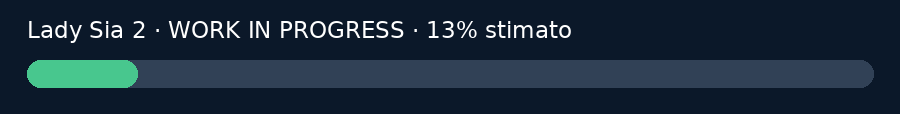
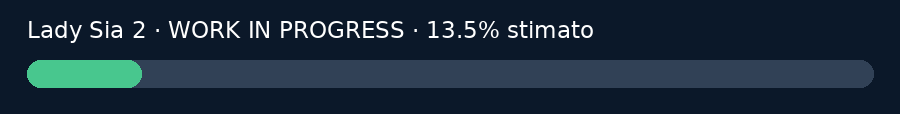
Connect the next island gap with reversible jumps and native previews

Changed region(s): [[0.4978, 0.1842, 0.6844, 0.3421], [0.1244, 0.6842, 0.1556, 0.7632], [0.1244, 0.5263, 0.1556, 0.6053]]

diff --git a/tools/package_build.py b/tools/package_build.py
@@ -19,6 +19,8 @@ def main():
  pictures=[p.with_suffix('.png') for p in sorted(root.glob('*.ppm'))]
  if not any(s.startswith('PASS pickup death integration:') for s in passed):
   raise SystemExit('Missing PASS pickup death integration:')
+ if not any(s.startswith('PASS island gap integration:') for s in passed):
+  raise SystemExit('Missing PASS island gap integration:')
  if not any(s.startswith('PASS ramp route integration:') for s in passed):
   raise SystemExit('Missing PASS ramp route integration:')
  if any(not p.exists() for p in pictures):raise SystemExit('Export every emulator PPM before packaging')
@@ -30,16 +32,18 @@ def main():
  shutil.copyfile(root/'position-audit.json',out/'position-audit.json')
  (out/'screenshots').mkdir()
  for path in pictures:shutil.copyfile(path,out/'screenshots'/path.name)
- info={'source_commit':os.environ.get('GITHUB_SHA','not-specified'),'rom_sha256':hashlib.sha256(data).hexdigest(),'rom_bytes':len(data),'screenshots':len(pictures),'overall_completion_estimate_percent':sum(r['earned'] for r in json.loads((Path(__file__).resolve().parents[1]/'docs/progress.json').read_text())['areas']),'playable_viewports':11,'collision_geometry':'provisional','hardware_tested':False,'disk_save_reload_tested':True,'music':'Existing mixed recording; separation trials are not integrated.'}
+ info={'source_commit':os.environ.get('GITHUB_SHA','not-specified'),'rom_sha256':hashlib.sha256(data).hexdigest(),'rom_bytes':len(data),'screenshots':len(pictures),'overall_completion_estimate_percent':sum(r['earned'] for r in json.loads((Path(__file__).resolve().parents[1]/'docs/progress.json').read_text())['areas']),'playable_viewports':12,'collision_geometry':'provisional','hardware_tested':False,'disk_save_reload_tested':True,'music':'Existing mixed recording; separation trials are not integrated.'}
  (out/'BUILD_INFO.json').write_text(json.dumps(info,indent=2)+'\n')
- (out/'LEGGIMI.txt').write_text('''LADY SIA 2 - BUILD DI TEST\n\nApri Lady_Sia2_GBA_test.gba in un emulatore GBA.\nÈ una ricostruzione parziale: undici inquadrature parziali del livello 1, tre guardie prototipo e cinque gemme.\nLe nuove aree aggiungono salita, vuoto, ponte, terza guardia, parete, piattaforma superiore e due viste della rampa con collisioni provvisorie.\nIl percorso completo e gli altri livelli non sono ancora giocabili.\n\nSu+A+sinistra dalla parete: salto alto provvisorio verso la piattaforma superiore.\nSulla piattaforma superiore prosegui a sinistra: risali la rampa fino alla nuova isola.
+ (out/'LEGGIMI.txt').write_text('''LADY SIA 2 - BUILD DI TEST\n\nApri Lady_Sia2_GBA_test.gba in un emulatore GBA.\nÈ una ricostruzione parziale: dodici inquadrature parziali del livello 1, tre guardie prototipo e cinque gemme.\nLe nuove aree aggiungono salita, vuoto, ponte, terza guardia, parete, piattaforma superiore due viste della rampa e il salto fra le isole successive con collisioni provvisorie.\nIl percorso completo e gli altri livelli non sono ancora giocabili.\n\nSu+A+sinistra dalla parete: salto alto provvisorio verso la piattaforma superiore.\nSulla piattaforma superiore prosegui a sinistra: risali la rampa fino alla nuova isola. Prosegui a sinistra e salta il vuoto verso l'isola successiva; Su+A raggiunge il ripiano alto provvisorio.
 A: conferma/salto. B: indietro/attacco.\nFrecce: movimento. Salta sotto il bordo per aggrapparti; Su/A: risali; Giu: lascia la presa. Start: pausa.\nSelect: menu. R: ripristino delle aree e delle gemme.\nTre vite e tre HP (provvisori). Colpi nemici consumano HP; colpi letali e cadute consumano una vita.\nRespawn: HP pieni, gemme e nemici sconfitti conservati. Zero vite: Game Over.\nHP e vite consultabili nella pausa; nessun riquadro HP/L sovrapposto allo scenario.\nPLAY apre direttamente i dialoghi iniziali: il filmato INTRO e la relativa opzione sono stati rimossi.\n\nSOUND viene salvato in SRAM; il vecchio flag INTRO non abilita più il filmato. Il reset del core è verificato;\nriapertura del file SRAM verificata con nuove istanze mGBA, SOUND spento/acceso e checksum corrotto.\nHardware reale non ancora verificato.\nLa musica usa ancora la registrazione precedente.\nNon è stato integrato il tentativo di separazione degli effetti.\n\nTEST_REPORT.txt: prove mGBA superate.\nBUILD_INFO.json: commit, hash ROM e limiti.\nSHA256SUMS.txt: integrità di tutti gli altri file del pacchetto.\nscreenshots/: acquisizioni reali della ROM compilata.\n''')
  repo=Path(__file__).resolve().parents[1]
  shutil.copyfile(repo/'references/LIFE_FEEDBACK_STATUS.md',out/'LIFE_FEEDBACK_STATUS.md')
  shutil.copyfile(repo/'references/RAMP_ROUTE_STATUS.md',out/'RAMP_ROUTE_STATUS.md')
  for source in ['previews/ramp_gameplay.gif','previews/ramp_preview.json','previews/ramp_upper_landing.png','previews/ramp_lower_entry.png','assets/ramp_route_manifest.json']:
   shutil.copyfile(repo/source,out/Path(source).name)
- for name in ['jump','ledge','scenery','continuation','bridge_run','ramp']:
+ for source in ['references/ISLAND_GAP_STATUS.md','previews/island_gap_gameplay.gif','previews/island_gap_preview.json','previews/island_gap_left_landing.png','previews/island_gap_high_ledge.png','assets/island_gap_manifest.json']:
+  shutil.copyfile(repo/source,out/Path(source).name)
+ for name in ['jump','ledge','scenery','continuation','bridge_run','ramp','island_gap']:
   report=json.loads((repo/'previews'/f'{name}_preview.json').read_text())
   preview=(repo/'previews'/f'{name}_gameplay.gif').read_bytes()
   if len(preview)!=report.get('gif_bytes') or hashlib.sha256(preview).hexdigest()!=report.get('gif_sha256'):

diff --git a/tools/frontend_check.c b/tools/frontend_check.c
@@ -220,6 +220,7 @@ int main(int argc,char **argv){
  assert(!mkdir("build/continuation_sequence",0777)||errno==EEXIST);
  assert(!mkdir("build/bridge_run_sequence",0777)||errno==EEXIST);
  assert(!mkdir("build/ramp_sequence",0777)||errno==EEXIST);
+ assert(!mkdir("build/island_gap_sequence",0777)||errno==EEXIST);
  mLogSetDefaultLogger(&test_logger);
  assert(argc==2);struct mCore *c=mCoreFind(argv[1]);assert(c&&c->init(c));mCoreInitConfig(c,NULL);
  color_t *pixels=calloc(240*160,sizeof(color_t));assert(pixels);c->setVideoBuffer(c,pixels,240);
@@ -600,6 +601,32 @@ int main(int argc,char **argv){
  c->setKeys(c,0);run(c,4);assert(value(c,17)==10&&ramp_crossed==2&&ramp_captured);
  move_to(c,32,85);assert(value(c,14)&&(int)value(c,9)==60*FP);
  capture(c,"build/ramp_upper_landing.ppm");
+ /* Explore the next gap with controller input; keep its film separate. */
+ const char *before_gap_sequence=sequence_dir;unsigned before_gap_frame=sequence_frame;
+ sequence_dir="build/island_gap_sequence";sequence_frame=0;
+ c->setKeys(c,32);
+ for(int i=0;i<30&&value(c,17)==10;i++){
+  int x=(int)value(c,8),y=(int)value(c,9);run(c,1);
+  if(value(c,17)==11){assert((int)value(c,8)-x==76*FP-320);assert((int)value(c,9)-y==44*FP);}
+ }
+ c->setKeys(c,0);run(c,4);assert(value(c,17)==11&&value(c,14));
+ capture(c,"build/island_gap_entry.ppm");
+ move_to(c,32,140);c->setKeys(c,33);run(c,58);c->setKeys(c,0);run(c,6);
+ assert(value(c,17)==11&&value(c,14)&&(int)value(c,8)<84*FP&&(int)value(c,9)==104*FP);
+ capture(c,"build/island_gap_left_landing.ppm");
+ c->setKeys(c,97);run(c,90);c->setKeys(c,0);run(c,4);
+ assert(value(c,14)&&(int)value(c,9)==20*FP);capture(c,"build/island_gap_high_ledge.ppm");
+ move_to(c,16,65);c->setKeys(c,0);run(c,100);
+ assert(value(c,14)&&(int)value(c,9)==104*FP);
+ c->setKeys(c,17);
+ for(int i=0;i<120&&value(c,17)==11;i++)run(c,1);
+ c->setKeys(c,0);run(c,4);
+ assert(value(c,17)==10&&value(c,14)&&value(c,31)==upper_lives&&value(c,18)==upper_falls);
+ assert(value(c,10)==5&&value(c,26)==3);capture(c,"build/island_gap_return.ppm");
+ FILE *gap_count=fopen("build/island_gap_sequence/frame_count.txt","w");assert(gap_count);
+ fprintf(gap_count,"%u\n",sequence_frame);fclose(gap_count);
+ sequence_dir=before_gap_sequence;sequence_frame=before_gap_frame;
+ puts("PASS island gap integration: twelfth view, registered portal, gap jumps both ways, high ledge and return using controller input; five gems, three defeats and lives preserved");
  tap(c,8);state(c,8);unsigned ramp_tick=value(c,16);run(c,30);assert(value(c,16)==ramp_tick);
  capture(c,"build/ramp_pause.ppm");tap(c,1);state(c,7);
  /* Isolated fall branch restores a complete emulator state before the return. */
@@ -607,7 +634,7 @@ int main(int argc,char **argv){
  const char *ramp_sequence=sequence_dir;sequence_dir=NULL;
  c->setKeys(c,32);for(int i=0;i<220&&value(c,18)==upper_falls;i++)run(c,1);
  c->setKeys(c,0);run(c,4);
- assert(value(c,17)==10&&value(c,18)==upper_falls+1&&value(c,31)==upper_lives-1);
+ assert(value(c,17)==11&&value(c,18)==upper_falls+1&&value(c,31)==upper_lives-1);
  assert(value(c,10)==5&&value(c,26)==3&&value(c,22)==3&&value(c,14));
  capture(c,"build/ramp_upper_respawn.ppm");
  assert(c->loadState(c,ramp_state));free(ramp_state);sequence_dir=ramp_sequence;
@@ -627,7 +654,8 @@ int main(int argc,char **argv){
  c->setKeys(c,32);
  for(int i=0;i<100&&value(c,17)==7;i++){
   int bx=(int)value(c,8),by=(int)value(c,9);run(c,1);
-  if(value(c,17)==6){assert((int)value(c,8)-168*FP-bx==-320);assert((int)value(c,9)+7*FP==by);}
+  if(value(c,17)==6){assert((int)value(c,8)-168*FP-bx==-320);assert(abs((int)value(c,9)+7*FP-by)<=FP);
+   assert((int)value(c,9)==(game_extension_floor(7,(int)value(c,8)/FP-168)-PLAYER_H-7)*FP);}
  }
  c->setKeys(c,0);run(c,4);assert(value(c,17)==6&&value(c,38)==0&&value(c,26)==3);
  capture(c,"build/bridge_run_return.ppm");

diff --git a/tools/convert_island_gap.py b/tools/convert_island_gap.py
@@ -1,0 +1,53 @@
+"""Next island gap from the supplied video; covered sky and geometry provisional."""
+from pathlib import Path
+import argparse,io,json
+import numpy as np
+from PIL import Image
+from convert_bridge_run import warm_mask,sky_fill,quantize
+from convert_continuation_background import png,write,sha
+from audit_route_continuation import match
+ROOT=Path(__file__).resolve().parents[1]
+def compose():
+ ref=ROOT/'reference/w1l1_next'
+ source=np.asarray(Image.open(ref/'174.png').convert('RGB'))
+ original=np.asarray(Image.open(ref/'175.png').convert('RGB'))
+ patches=[match(source.astype('int16'),original.astype('int16'),box,0)
+          for box in [(65,103,73,112),(103,105,111,111)]]
+ assert all(p['delta']==[76,44] and p['mae_rgb']<8 and p['runner_up_mae_rgb']-p['mae_rgb']>3 for p in patches)
+ a=original.copy();holes=np.zeros((160,240),bool);restored=holes.copy()
+ holes[:14]=True;holes[13:45,204:240]=True
+ holes[102:151,140:184]=True # actor and sword
+ holes[89:107,89:108]=True # collectible rendered later, not baked into terrain
+ clean=np.asarray(Image.open(ROOT/'assets/ramp_upper_background.png').convert('RGB'))
+ tile=clean[98:123,64:116];mask=warm_mask(tile)
+ # Copy connected terrain from its independently registered preceding view.
+ for x in range(mask.shape[1]):
+  ys=np.flatnonzero(mask[:,x])
+  if len(ys):mask[ys[0]:,x]=True
+ a[142:160,140:192][mask[:18]]=tile[:18][mask[:18]]
+ restored[142:160,140:192]=mask[:18]
+ holes &= ~restored
+ a[:14]=np.median(a[45,110:138],axis=0).astype('uint8')
+ sky_fill(a,holes,(110,138),95)
+ binary,preview=quantize(a,holes,(ROOT/'assets/continuation_palette.bin').read_bytes())
+ changed=holes|restored
+ assert np.array_equal(a[~changed],original[~changed])
[1 lines of base64/hex data omitted]
+  'sources':{str(t):sha((ref/f'{t}.png').read_bytes()) for t in [174,175]},
+  'camera_translation':[76,44],'patches':patches,'geometry':'provisional',
+  'limits':['Occluded sky estimated; island restored from preceding registered view',
+            'Gem removed from background; collectible and flying enemy pending',
+            'Upper-left ledge is a provisional one-way surface; next camera view pending']}
+ return {'island_gap_background.bin':binary,'island_gap_background.png':png(Image.fromarray(a)),
+  'island_gap_background_preview.png':png(preview.resize((720,480),Image.Resampling.NEAREST)),
+  'island_gap_manifest.json':(json.dumps(manifest,indent=2)+'\n').encode()}
+def main():
+ p=argparse.ArgumentParser();p.add_argument('--check',action='store_true');args=p.parse_args()
+ for name,data in compose().items():
+  path=ROOT/'assets'/name
+  if args.check:
+   if name.endswith('.png'):assert Image.open(path).convert('RGBA').tobytes()==Image.open(io.BytesIO(data)).convert('RGBA').tobytes(),name
+   else:assert path.read_bytes()==data,name
+  else:write(path,data)
+ print('PASS island gap assets: registered (+76,+44) portal and separate actor-free background; geometry provisional')
+if __name__=='__main__':main()

diff --git a/src/game.c b/src/game.c
@@ -5,6 +5,7 @@ const Platform platforms[PLATFORM_COUNT]={{81,88,70,8},{186,40,54,8}};
 static const Platform bridge_platforms[3]={{33,BRIDGE_SURFACE_Y,48,8},{81,BRIDGE_SURFACE_Y,125,8},{206,BRIDGE_SURFACE_Y,34,8}};
 static const Platform cliff_platforms[2]={{0,54,43,8},{96,115,144,8}};
 static const Platform cliff_rock={96,115,144,45};
+static const Platform island_upper_ledge={0,60,56,8};
 static const Platform gap_platforms[2]={{0,106,98,54},{172,98,68,62}};
 /* Provisional walk planes for the registered 159s viewport. */
 static const Platform continuation_solids[2]={{0,101,134,59},{202,95,12,65}};
@@ -39,6 +40,10 @@ static int profile_height(const int points[][2],unsigned count,int x){
 int game_extension_floor(int area,int player_x){
  if(area==5)return game_continuation_floor(player_x);
  int center=player_x+PLAYER_W/2,floor=4096;
+ if(area==11){
+  if((player_x+PLAYER_W>0&&player_x<84)||(player_x+PLAYER_W>140&&player_x<192))return 144;
+  return 4096;
+ }
  if(area==9&&player_x+PLAYER_W>0&&player_x<136){
   int x=center;if(x<0)x=0;if(x>135)x=135;
   return x<86?x-1:85;
@@ -125,6 +130,7 @@ static void respawn_area(Game *g){
  if(g->area==8){g->x=50*FP;g->y=(game_extension_floor(8,50)-PLAYER_H)*FP;}
  if(g->area==9){g->x=65*FP;g->y=(game_extension_floor(9,65)-PLAYER_H)*FP;}
  if(g->area==10){g->x=85*FP;g->y=(game_extension_floor(10,85)-PLAYER_H)*FP;}
+ if(g->area==11){g->x=154*FP;g->y=104*FP;}
  g->vx=0;g->vy=0;g->grounded=1;g->climbing=0;g->sign_open=0;
  g->camera=0;camera(g);
 }
@@ -254,8 +260,8 @@ void game_step(Game *g,unsigned input){
      g->y>=underside&&next<underside){next=underside;g->vy=0;}
  }
  g->grounded=0;
- const Platform *list=g->area==4?gap_platforms:g->area==2?cliff_platforms:g->area?bridge_platforms:platforms;
- int count=g->area>=5?0:g->area==4?2:g->area==3?0:g->area==2?2:g->area?3:PLATFORM_COUNT;
+ const Platform *list=g->area==11?&island_upper_ledge:g->area==4?gap_platforms:g->area==2?cliff_platforms:g->area?bridge_platforms:platforms;
+ int count=g->area==11?1:g->area>=5?0:g->area==4?2:g->area==3?0:g->area==2?2:g->area?3:PLATFORM_COUNT;
  for(int i=0;i<count;i++){
   const Platform *p=&list[i];
   if(g->vy>=0&&g->x+PLAYER_W*FP>p->x*FP&&g->x<(p->x+p->w)*FP&&
@@ -318,6 +324,10 @@ void game_step(Game *g,unsigned input){
   g->area=10;g->progress.area=10;g->x+=108*FP;g->y+=93*FP;camera(g);
  }else if(g->area==10&&((input&(LEFT|RIGHT))==RIGHT)&&g->x>=151*FP&&g->grounded){
   g->area=9;g->progress.area=9;g->x-=108*FP;g->y-=93*FP;camera(g);
+ }else if(g->area==10&&((input&(LEFT|RIGHT))==LEFT)&&g->x<=78*FP&&g->grounded){
+  g->area=11;g->progress.area=11;g->x+=76*FP;g->y+=44*FP;camera(g);
+ }else if(g->area==11&&((input&(LEFT|RIGHT))==RIGHT)&&g->x>=160*FP&&g->grounded){
+  g->area=10;g->progress.area=10;g->x-=76*FP;g->y-=44*FP;camera(g);
  }else if(g->area==7&&g->x<90*FP&&g->y<=-8*FP&&g->vy<0){
   g->area=8;g->progress.area=8;g->x+=35*FP;g->y+=81*FP;camera(g);
  }else if(g->area==8&&g->y>=110*FP&&!g->grounded){

diff --git a/tests/test_island_gap.c b/tests/test_island_gap.c
@@ -1,0 +1,40 @@
+#include "../src/game.h"
+#include <assert.h>
+#include <stdio.h>
+static void at(Game *g,int area,int x,int y){game_reset(g);g->area=area;g->progress.area=(unsigned)area;g->x=x*FP;g->y=y*FP;}
+int main(void){
+ Game g;at(&g,10,85,60);
+ assert(level_collect_gem(&g.progress,4));g.gems=1;g.collected=16;
+ for(int i=0;i<30&&g.area==10;i++){
+  int x=g.x,y=g.y;game_step(&g,LEFT);
+  if(g.area==11){assert(g.x-x==76*FP-320&&g.y-y==44*FP);}
+ }
+ assert(g.area==11&&g.grounded&&g.y==104*FP);
+ while(g.x>140*FP)game_step(&g,LEFT);
+ game_step(&g,0);game_step(&g,LEFT|JUMP);
+ unsigned airborne=0;
+ for(int i=0;i<100;i++){
+  if(!g.grounded)airborne++;
+  if(g.grounded&&g.x<84*FP)break;
+  game_step(&g,LEFT);
+ }
+ assert(airborne>30&&g.grounded&&g.x<84*FP&&g.y==104*FP);
+ assert(g.lives==3&&!g.falls&&g.gems==1&&g.collected==16);
+ /* The observed upper-left ledge can be reached with the existing high jump. */
+ game_step(&g,0);game_step(&g,UP|JUMP);
+ for(int i=0;i<120&&!g.grounded;i++)game_step(&g,LEFT);
+ assert(g.grounded&&g.y==20*FP&&g.lives==3);
+ /* Return from the lower island across the same gap, without a forced teleport. */
+ at(&g,11,65,104);game_step(&g,RIGHT|JUMP);
+ for(int i=0;i<120&&g.area==11;i++)game_step(&g,RIGHT);
+ assert(g.area==10&&g.grounded&&g.lives==3&&!g.falls);
+ at(&g,11,154,104);
+ for(int i=0;i<250&&!g.falls;i++)game_step(&g,LEFT);
+ assert(g.area==11&&g.falls==1&&g.lives==2&&g.x==154*FP&&g.y==104*FP);
+ assert(g.progress.health==3&&g.grounded);
+ /* Both directions also cancel the new portal. */
+ at(&g,10,77,60);game_step(&g,LEFT|RIGHT);assert(g.area==10);
+ at(&g,11,161,104);game_step(&g,LEFT|RIGHT);assert(g.area==11);
+ game_step(&g,RESET);assert(g.area==0&&g.lives==3&&!g.falls);
+ puts("PASS island gap: registered portal, input-only jumps both ways, high ledge, cancelled directions, pit respawn and persistent progress");
+}

diff --git a/src/main.c b/src/main.c
@@ -9,6 +9,7 @@ static const char save_type[] __attribute__((used))="SRAM_V113";
 #include "../assets/assets.h"
 #include "../assets/room.h"
 #include "../assets/ui.h"
+extern const unsigned char island_gap_background[];
 extern const unsigned char continuation_background[],bridge_run_background[],riser_background[],upper_background[],ui_digit5_tiles[];
 extern const unsigned char ramp_lower_background[],ramp_upper_background[];
 extern const unsigned char cliff_background[],guard_background[],guard_sprite[];
@@ -183,7 +184,7 @@ static void draw_level(void){
  const unsigned char *background=game.area?bridge_backdrop:room_backdrop;
  const unsigned char *spans=game.area?bridge_spans:room_spans;
  int shift=-game.camera_y;
- if(game.area==10)image(ramp_upper_background);else if(game.area==9)image(ramp_lower_background);else if(game.area==8)image(upper_background);else if(game.area==7)image(riser_background);else if(game.area==6)image(bridge_run_background);else if(game.area==5)image(continuation_background);else if(game.area==4)image(gap_background);else if(game.area==3)image(guard_background);else if(game.area==2)image(cliff_background);else image(background);
+ if(game.area==11)image(island_gap_background);else if(game.area==10)image(ramp_upper_background);else if(game.area==9)image(ramp_lower_background);else if(game.area==8)image(upper_background);else if(game.area==7)image(riser_background);else if(game.area==6)image(bridge_run_background);else if(game.area==5)image(continuation_background);else if(game.area==4)image(gap_background);else if(game.area==3)image(guard_background);else if(game.area==2)image(cliff_background);else image(background);
  if(game.area<2)draw_clouds(cloud_phase(game.ticks));
  for(int row=0;row<160-shift&&game.area<2;row++){
   unsigned count=spans[0]|((unsigned)spans[1]<<8);spans+=2;

diff --git a/tests/test_lives.c b/tests/test_lives.c
@@ -3,7 +3,7 @@
 #include <stdio.h>
 int main(void){
  Game g;
- for(int area=0;area<11;area++){
+ for(int area=0;area<12;area++){
   game_reset(&g);g.area=area;g.progress.area=(unsigned)area;
   assert(level_collect_gem(&g.progress,0));g.gems=1;g.collected=1;
   assert(level_defeat_enemy(&g.progress,0));g.enemy_hp=0;
@@ -32,5 +32,5 @@ int main(void){
  for(int n=0;n<200;n++)game_step(&g,RIGHT|ATTACK);
  assert(g.ticks==tick&&g.falls==falls&&!game_damage(&g,99));
  game_step(&g,RESET);assert(g.lives==3&&g.progress.health==3&&!g.game_over&&!g.falls);
- puts("PASS lives: lethal-hit respawn in eleven areas, progress preservation, immunity, pit override, frozen defeat and full retry");
+ puts("PASS lives: lethal-hit respawn in twelve areas, progress preservation, immunity, pit override, frozen defeat and full retry");
 }

diff --git a/tests/test_ramp_route.c b/tests/test_ramp_route.c
@@ -37,7 +37,7 @@ int main(void){
  for(int i=0;i<240&&g.area!=8;i++)game_step(&g,RIGHT);
  assert(g.area==8&&g.grounded&&g.gems==1&&g.collected==16&&g.lives==3&&!g.falls);
  for(int i=0;i<300&&!g.falls;i++)game_step(&g,LEFT);
- assert(g.area==10&&g.falls==1&&g.lives==2&&g.x==85*FP&&g.y==60*FP&&g.grounded);
+ assert(g.area==11&&g.falls==1&&g.lives==2&&g.x==154*FP&&g.y==104*FP&&g.grounded);
  assert(g.gems==1&&g.collected==16&&g.progress.gems==1);
  game_step(&g,RESET);assert(g.area==0&&g.gems==0&&g.lives==3);
  puts("PASS ramp route: opposite directions never trigger portals, two registered slope portals each way, upper landing and jump, persistent gem, pit life loss and upper respawn, reset");

diff --git a/tools/export_motion_previews.py b/tools/export_motion_previews.py
@@ -74,7 +74,7 @@ def export(build, name, out, scale=2):
 def main():
     p=argparse.ArgumentParser();p.add_argument('build',type=Path);p.add_argument('--out',type=Path,default=Path('previews'));p.add_argument('--scale',type=int,choices=[1,2,3],default=2);a=p.parse_args()
     a.out.mkdir(parents=True,exist_ok=True)
-    for name in ['jump','ledge','scenery','continuation','bridge_run','ramp']:export(a.build,name,a.out,a.scale)
+    for name in ['jump','ledge','scenery','continuation','bridge_run','ramp','island_gap']:export(a.build,name,a.out,a.scale)
 
 
 if __name__=='__main__':main()

diff --git a/references/ISLAND_GAP_STATUS.md b/references/ISLAND_GAP_STATUS.md
@@ -1,0 +1,51 @@
+# Salto fra le isole dopo la rampa
+
+8 novembre 2026. **13,5% complessivo stimato**, rispetto al 13% precedente.
+Il primo livello ora collega dodici inquadrature parziali.
+
+Dalla nuova isola della rampa proseguire a sinistra: la camera mostra il vuoto
+fra due isole. Saltare a sinistra per raggiungere l'isola opposta; Su+A consente
+di salire al ripiano superiore provvisorio. Dal ripiano, spostarsi a destra e
+lasciarsi cadere sull'isola bassa, poi saltare a destra per tornare alla rampa.
+Camminare nel vuoto consuma una vita e riposiziona Sia sull'isola di ingresso;
+le gemme raccolte e le guardie sconfitte restano conservate.
+
+## Provenienza e limiti
+
+Il fotogramma a 175 secondi viene dal video originale W1L1 con SHA-256
[1 lines of base64/hex data omitted]
+Due dettagli statici indipendenti registrano (+76,+44) dalla vista a 174 secondi.
+Il convertitore ricerca tutte le traslazioni intere e richiede errore RGB medio
+inferiore a 8/255 e margine dal secondo risultato superiore a 3/255.
+Il manifest conserva hash, dettagli e risultati della registrazione.
+
+Sia e spada sono rimossi dal fondale; l'isola coperta viene ripristinata dalla
+vista precedente tramite la traslazione misurata. Cielo occultato, banner e
+logo vengono ricostruiti come cielo stimato. Le superfici delle due isole e del
+ripiano alto sono provvisorie e attraversabili dal basso. Le gemme visibili
+sono rimosse dal fondale e non ancora raccoglibili: il prototipo conserva cinque
+gemme. Il nemico volante e la vista successiva con la leva restano da integrare.
+Nessun altro mondo o boss diventa completo con questa estensione.
+
+## Verifiche
+
+- Tredici programmi C superati localmente con AddressSanitizer e
+  UndefinedBehaviorSanitizer; nuovo test con salti nei due sensi, ripiano alto,
+  ritorno, input opposti, caduta e respawn. Quattro test Python di registrazione
+  superati; conversione del nuovo fondale riproducibile.
+- ROM GBA compilata localmente con GCC ARM 13.2.1. Suite frontend mGBA 0.10.2
+  completa superata: la nuova area si raggiunge usando solo i pulsanti, senza
+  scrivere coordinate. Verificati portale misurato, due salti sul vuoto, ripiano,
+  ritorno, cinque gemme e tre guardie sconfitte conservate, nessuna vita persa.
+- Il ramo isolato di caduta dopo la rampa ora verifica il respawn nella nuova
+  area 11 e ripristina poi lo snapshot completo. La regressione continua sul
+  percorso precedente. La verifica del ritorno sulla pendenza precedente tiene
+  conto del singolo pixel di dislivello percorso prima del cambio camera.
+- Riapertura SRAM con nuove istanze mGBA superata. Screenshot e animazione della
+  nuova area sono catture della ROM compilata; le sette animazioni sono esportate
+  dai framebuffer nativi e verificate senza alterarne i pixel.
+
+Questi sono risultati locali, non una dichiarazione di GitHub CI o di collaudo
+su hardware. La stima ponderata aggiunge 0,5 punti al contenuto del Mondo 1;
+non misura il tempo rimanente. Restano da completare livelli, boss, animazioni,
+interfaccia e audio e da rifinire le collisioni.

diff --git a/README.md b/README.md
@@ -3,9 +3,9 @@
 **🚧 WORK IN PROGRESS — Ricostruzione ancora in sviluppo.**
 
 <!-- PROJECT_PROGRESS -->
-![Avanzamento complessivo stimato: 13%](docs/progress.svg)
+![Avanzamento complessivo stimato: 13.5%](docs/progress.svg)
 
-**Progetto completo: circa 13%** — stima ponderata, non misura del tempo rimanente. [Criteri e stato delle singole parti](docs/PROGRESS.md).
+**Progetto completo: circa 13.5%** — stima ponderata, non misura del tempo rimanente. [Criteri e stato delle singole parti](docs/PROGRESS.md).
 <!-- /PROJECT_PROGRESS -->
 
 ![Anteprima degli asset attualmente integrati](previews/readme_frontend.png)
@@ -16,7 +16,9 @@ An ongoing reconstruction of Lady Sia 2: Sword of Sia for Game Boy Advance, base
 
 The current build includes a partial reconstruction of World 1 with controllable gameplay, collisions, pickups, damage, falling and game over. Levels, sprite and scenery animations, and the original interface are still being reconstructed and refined. This project is incomplete and does not represent the finished original game.
 
-Latest playable change: W1L1 now has eleven linked partial viewports, three prototype guards and five gems. From the upper island, continue LEFT to climb the wooden ramp across two new camera views and reach the next island; RIGHT returns to the preceding route. Ramp geometry and hidden background details remain provisional. The next gap, flying enemy and complete level remain unfinished. [Implementation and verified checks](references/RAMP_ROUTE_STATUS.md).
+Latest playable change: W1L1 now has twelve linked partial viewports, three prototype guards and five gems. Continue LEFT past the ramp island, jump the next gap to the opposite island, and use UP+A for its provisional high ledge. Jump RIGHT to return to the ramp. Island geometry and covered sky remain provisional; the visible gems, flying enemy and next lever view remain unfinished. [Implementation and local checks](references/ISLAND_GAP_STATUS.md).
+
+![Native ROM: next island gap, high ledge and return](previews/island_gap_gameplay.gif)
 
 ![Native ROM: climb the new ramp, reach the island and return](previews/ramp_gameplay.gif)
 

diff --git a/docs/PROGRESS.md b/docs/PROGRESS.md
@@ -1,13 +1,13 @@
 # Avanzamento complessivo
 
-**13% — stima editoriale ponderata, aggiornata il 2026-11-08.**
+**13.5% — stima editoriale ponderata, aggiornata il 2026-11-08.**
 
 Non misura il tempo rimanente né la percentuale di pixel originali recuperati. I pesi sono una convenzione di pianificazione e potranno essere rivisti se cambia lo scopo. Un riferimento video archiviato non conta come livello implementato.
 
 | Parte | Punti acquisiti / peso | Stato verificato |
 |---|---:|---|
 | Motore e sistemi di gioco | 8.75 / 15 | Controlli, combattimento, tre guardie persistenti, vite/game over, pendenze, salto alto e quattro portali della rampa verificati; fisica e IA ancora provvisorie. |
-| Mondo 1 e boss | 3.25 / 20 | Undici inquadrature parziali collegate: ponte, parete, piattaforma superiore e due viste della rampa; salita, ritorno e respawn verificati. Livello, mondo e boss incompleti. |
+| Mondo 1 e boss | 3.75 / 20 | Dodici inquadrature parziali collegate: ponte, parete, piattaforma superiore, rampa e nuovo salto fra isole; andata, ritorno, ripiano alto e respawn verificati. Livello, mondo e boss incompleti. |
 | Mondo 2 e boss | 0 / 15 | Riferimenti disponibili; contenuti non integrati. |
 | Mondo 3 e boss | 0 / 15 | Video indicizzati; contenuti non integrati. |
 | Mondo 4, boss finale, finale e crediti | 0 / 15 | Video indicizzati; contenuti non integrati. |
